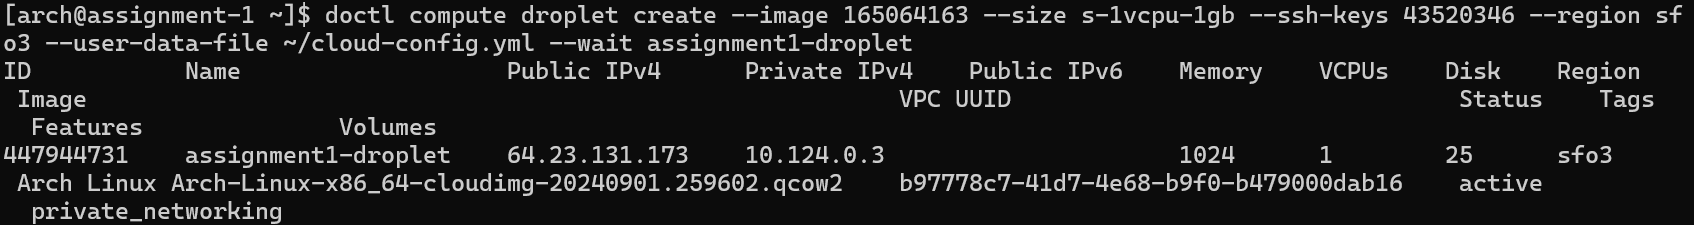
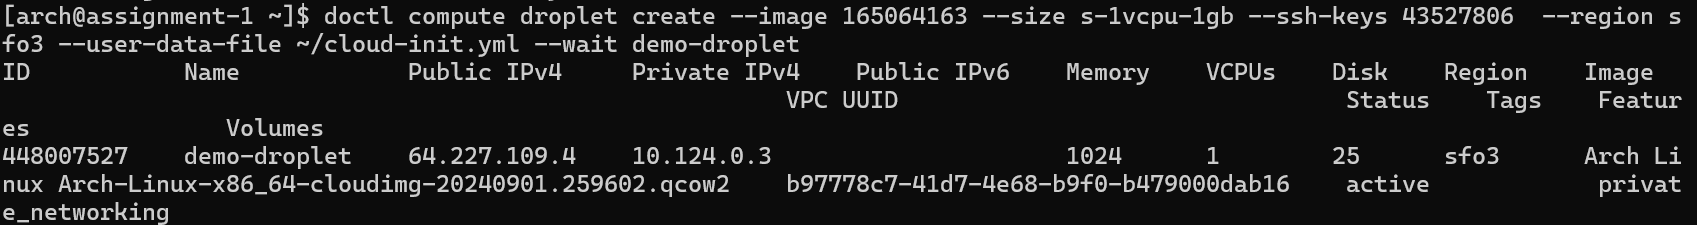
making final changes

diff --git a/README.md b/README.md
@@ -219,8 +219,9 @@ doctl compute ssh-key import <key-name> --public-key-file ~/.ssh/<key-name>.pub
 ```
 Replace these placeholders with the appropriate values:
 * `<key-name>`: The name you gave to your SSH key pair
-* `<key-name>.pub`: The public key file path
-* What this command does:
+* `<key-name>.pub`: The public key file path  
+
+What this command does:
 * Adds the public key to your DigitalOcean account
 * Allows you to use the private key to authenticate with your Droplet
 
@@ -295,24 +296,28 @@ disable_root: true
 * `<user name>`: The name you want to give to the user
 * `<user group>`: The group you want to assign to the user
 * `<your ssh public key string>`: The public key string from your SSH key pair
+  * Run this command to get the public key string
+       ```
+       cat ~/.ssh/<your ssh key ending in .pub>
+       ``` 
+    * What this command does: 
+      * `cat` displays the contents of a file
+      * `~/.ssh/<your ssh key ending in .pub>` specifies the path to your public key file
+    * Copy paste the string so that you can paste it to the `cloud-init.yml` file
 
 **This is how it looks on the Terminal:**
 ![nvim-cloud-init-yml](assets/nvim-cloud-init-yml.png)
 
+
 3. Save and exit the file
    1. You can save by pressing `:wq` and then Enter
-4. Run this command to get the public key string
-   ```
-   cat ~/.ssh/<your ssh key ending in .pub>
-   ``` 
-5. Copy the public key string 
 
-Now that you have configured the ```cloud-config.yaml``` file, you are ready to deploy your Droplet with Cloud-Init. 
+Now that you have configured the ```cloud-init.yaml``` file, you are ready to deploy your Droplet with Cloud-Init. 
 
 ## 7. Deploy a Droplet with Cloud-Init
 ### Step 1: Run this command
 ```
-doctl compute droplet create --image <image ID> --size s-1vcpu-1gb --ssh-keys <SSH key ID> --region <your preferred region slug> --user-data-file ~/cloud-config.yml --wait <droplet name>
+doctl compute droplet create --image <image ID> --size s-1vcpu-1gb --ssh-keys <SSH key ID> --region <your preferred region slug> --user-data-file ~/cloud-init.yml --wait <droplet name>
 ``` 
 Replace these placeholders with the appropriate values:
 * `<image ID>`: The ID of the custom image you created
@@ -341,7 +346,7 @@ What this command does:
 * `--size s-1vcpu-1gb` specifies the size of the Droplet, in this case, 1 vCPU and 1 GB of RAM
 * `--ssh-keys <SSH key ID>` specifies the SSH key you added to your DigitalOcean account
 * `--region <your preferred region slug>` specifies the region where you want to create the Droplet
-* `--user-data-file ~/cloud-config.yml` specifies the Cloud-Init configuration file
+* `--user-data-file ~/cloud-init.yml` specifies the Cloud-Init configuration file
 * `--wait` waits for the Droplet to be created before returning
 * `<droplet name>` specifies the name you want to give to your Droplet
 
@@ -351,7 +356,7 @@ What this command does:
 > [!NOTE]
 > It may take a few minutes for the Droplet to be created. 
 
-### Step 2: Verify that the Droplet was created by running this command
+### Step 2: Connect to your Droplet
 ```
 ssh example-user@<your-droplet-ip-address>
 ``` 
@@ -367,6 +372,18 @@ What this command does:
 ![ssh-example-user-your-droplet-ip-address](assets/ssh-example-user-your-droplet-ip-address.png)
 
 Congratulations! You have successfully deployed a Droplet with Cloud-Init. You can now access your Droplet via SSH and start using it.
+
+### Step 3: Verify that cloud-init installed the packages
+One of the packages that you installed with this guide is neovim. You can check that it was installed by running this command.
+```
+nvim --version
+```
+* This command checks the version of neovim installed on your Droplet
+
+**This is how it looks on the Terminal:**  
+![nvim-version](assets/nvim-version.png)
+
+Congratulations! This concludes the guide to setting up and managing DigitalOcean with doctl and cloud-init. You have successfully created a custom Droplet, set up an SSH key, configured Cloud-Init, and deployed a Droplet with Cloud-Init.
 
 ## 8. References
 
